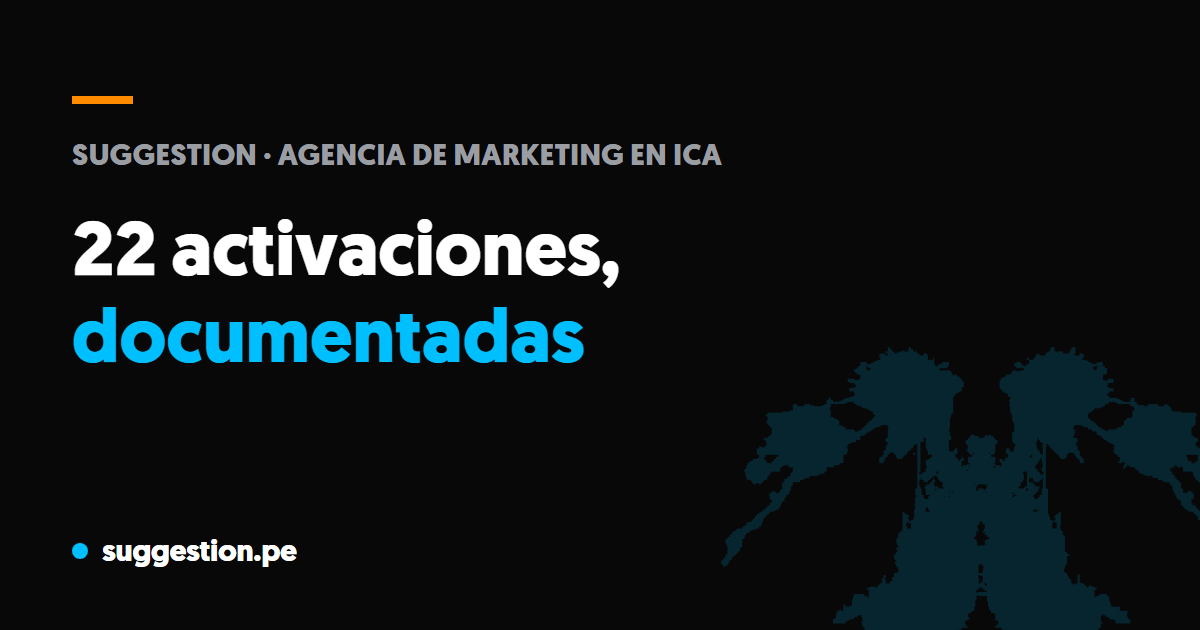
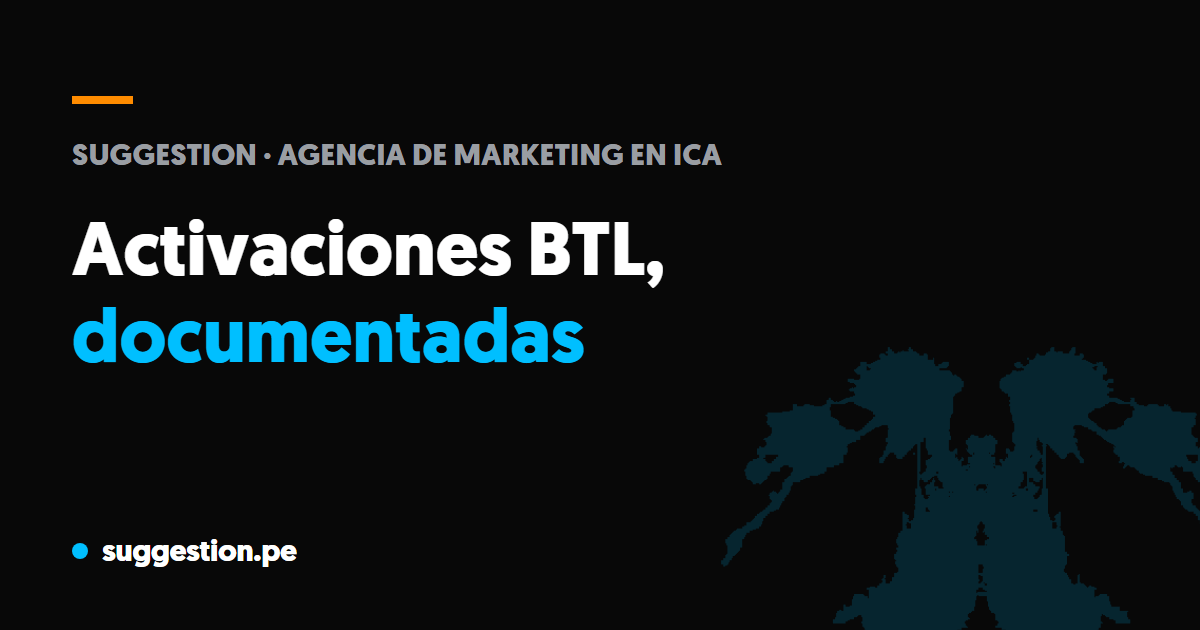
Auditoría TEC-13: imagen para compartir propia en los 7 artículos con foto
- scripts/og-posts.mjs compone 1200×630 desde la foto de la sección del
  artículo, con el título y la marca, en public/assets/og/blog-<slug>.jpg.
- La página del artículo la usa en og:image y en el BlogPosting cuando el
  post tiene foto propia; los demás siguen con la OG de su servicio.
- La OG del portafolio ya no dice «22 activaciones» (hoy son 23): sin número
  fijo para que no caduque.

Changed region(s): [[0.0617, 0.3317, 0.555, 0.4524]]

diff --git a/src/app/blog/[categoria]/[slug]/page.tsx b/src/app/blog/[categoria]/[slug]/page.tsx
@@ -17,9 +17,15 @@ import { BLOG_POSTS, getPost, getCategoria } from "@/content/blog";
 
 type Params = { params: Promise<{ categoria: string; slug: string }> };
 
-/** OG del post = la de su money page (marca en cada compartida + thumbnail elegible). */
-function ogDelPost(moneyHref: string): string {
-  const slug = moneyHref.replace(/^\/servicios\//, "").replace(/^\//, "").split("/")[0];
+/**
+ * OG del post. Si el artículo tiene foto propia en alguna sección, su imagen
+ * compuesta desde esa foto (scripts/og-posts.mjs → /assets/og/blog-<slug>.jpg):
+ * antes hasta 8 posts compartían la misma (auditoría TEC-13). Si no, la de su
+ * money page (marca en cada compartida + thumbnail elegible).
+ */
+function ogDelPost(post: { slug: string; moneyPage: { href: string }; secciones: { foto?: unknown }[] }): string {
+  if (post.secciones.some((s) => s.foto)) return `/assets/og/blog-${post.slug}.jpg`;
+  const slug = post.moneyPage.href.replace(/^\/servicios\//, "").replace(/^\//, "").split("/")[0];
   return slug ? `/assets/og/${slug}.png` : "/og-image.png";
 }
 
@@ -120,7 +126,7 @@ export async function generateMetadata({ params }: Params): Promise<Metadata> {
     description: post.description,
     path: `/blog/${categoria}/${slug}`,
     type: "article",
-    ogImage: ogDelPost(post.moneyPage.href),
+    ogImage: ogDelPost(post),
   });
 }
 
@@ -158,7 +164,7 @@ export default async function BlogPostPage({ params }: Params) {
           description: post.description,
           datePublished: post.date,
           dateModified: post.actualizado,
-          image: ogDelPost(post.moneyPage.href),
+          image: ogDelPost(post),
           url: `/blog/${categoria}/${slug}`,
         })}
       />
